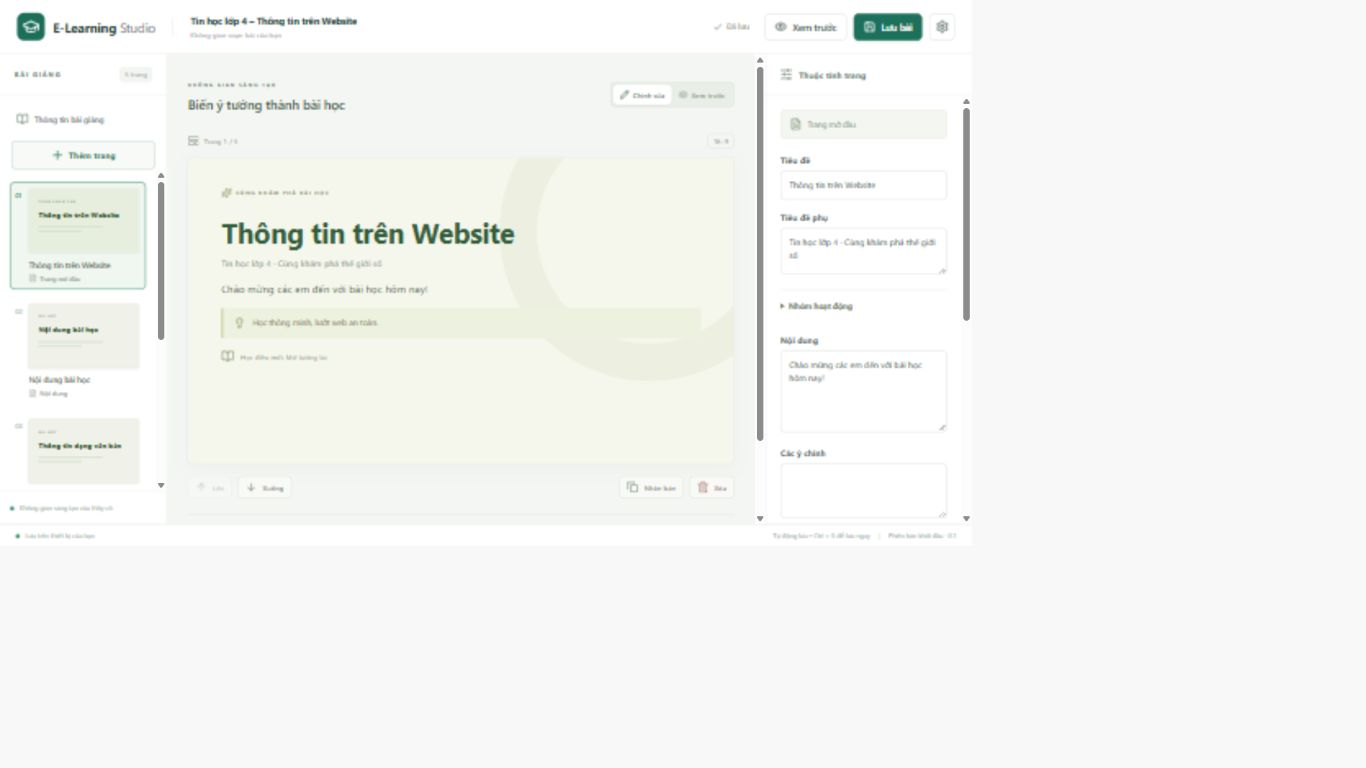
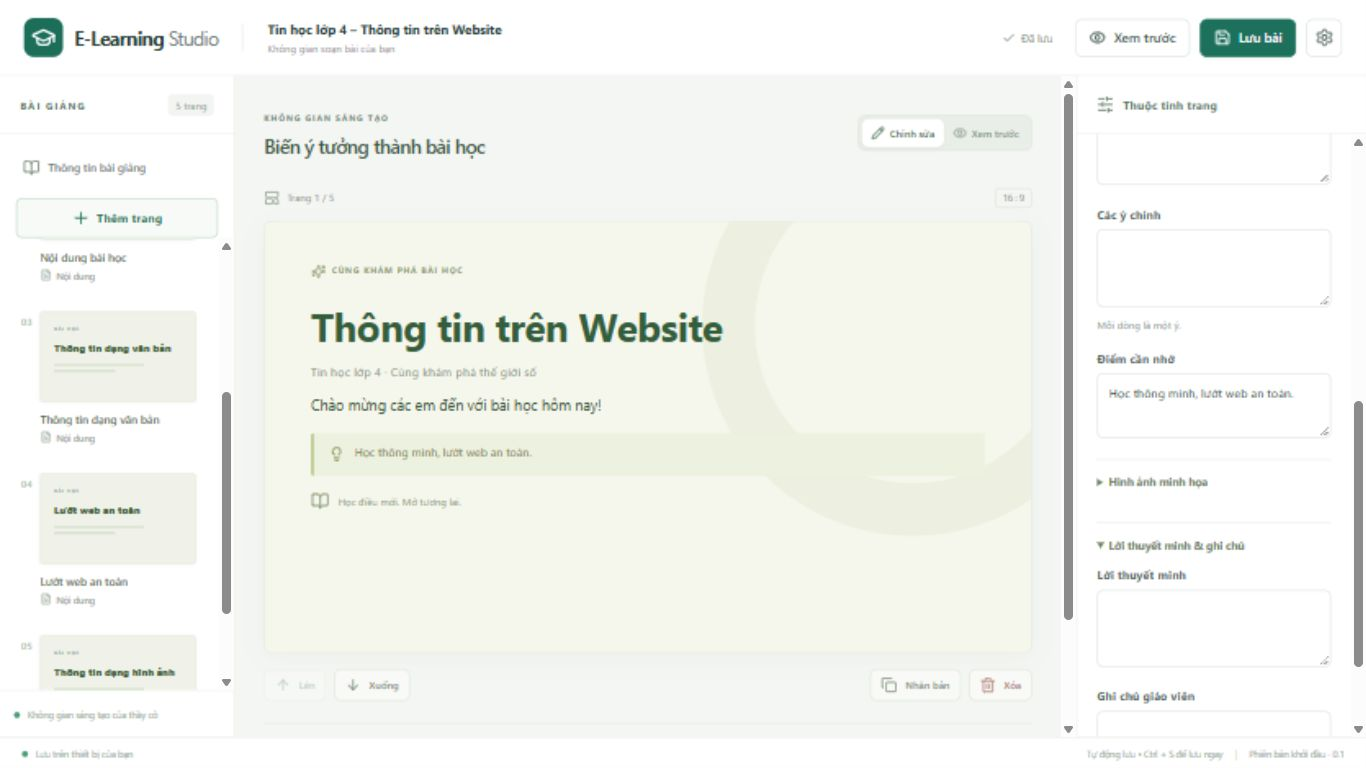
chore: preserve reference files and finalize phase 0 evidence

diff --git a/PHASE_0_CHECKPOINT.md b/PHASE_0_CHECKPOINT.md
@@ -6,7 +6,9 @@ Ngày kiểm tra: 07/10/2026.
 
 **COMMIT:** Commit chứa checkpoint này. Xem mã chính xác bằng `git rev-parse HEAD` và trong báo cáo bàn giao ở chat.
 
-**MESSAGE:** `feat: build Vietnamese e-learning studio phase 0 foundation`
+**MESSAGE:** `chore: preserve reference files and finalize phase 0 evidence`
+
+Commit triển khai: `bb2401a` — `feat: build Vietnamese e-learning studio phase 0 foundation`.
 
 **BUILD:** PASS — `npm run build` (strict TypeScript + Vite).
 
@@ -29,6 +31,7 @@ Ngày kiểm tra: 07/10/2026.
 
 ```text
 .gitignore
+.gitattributes
 index.html
 package.json
 package-lock.json
